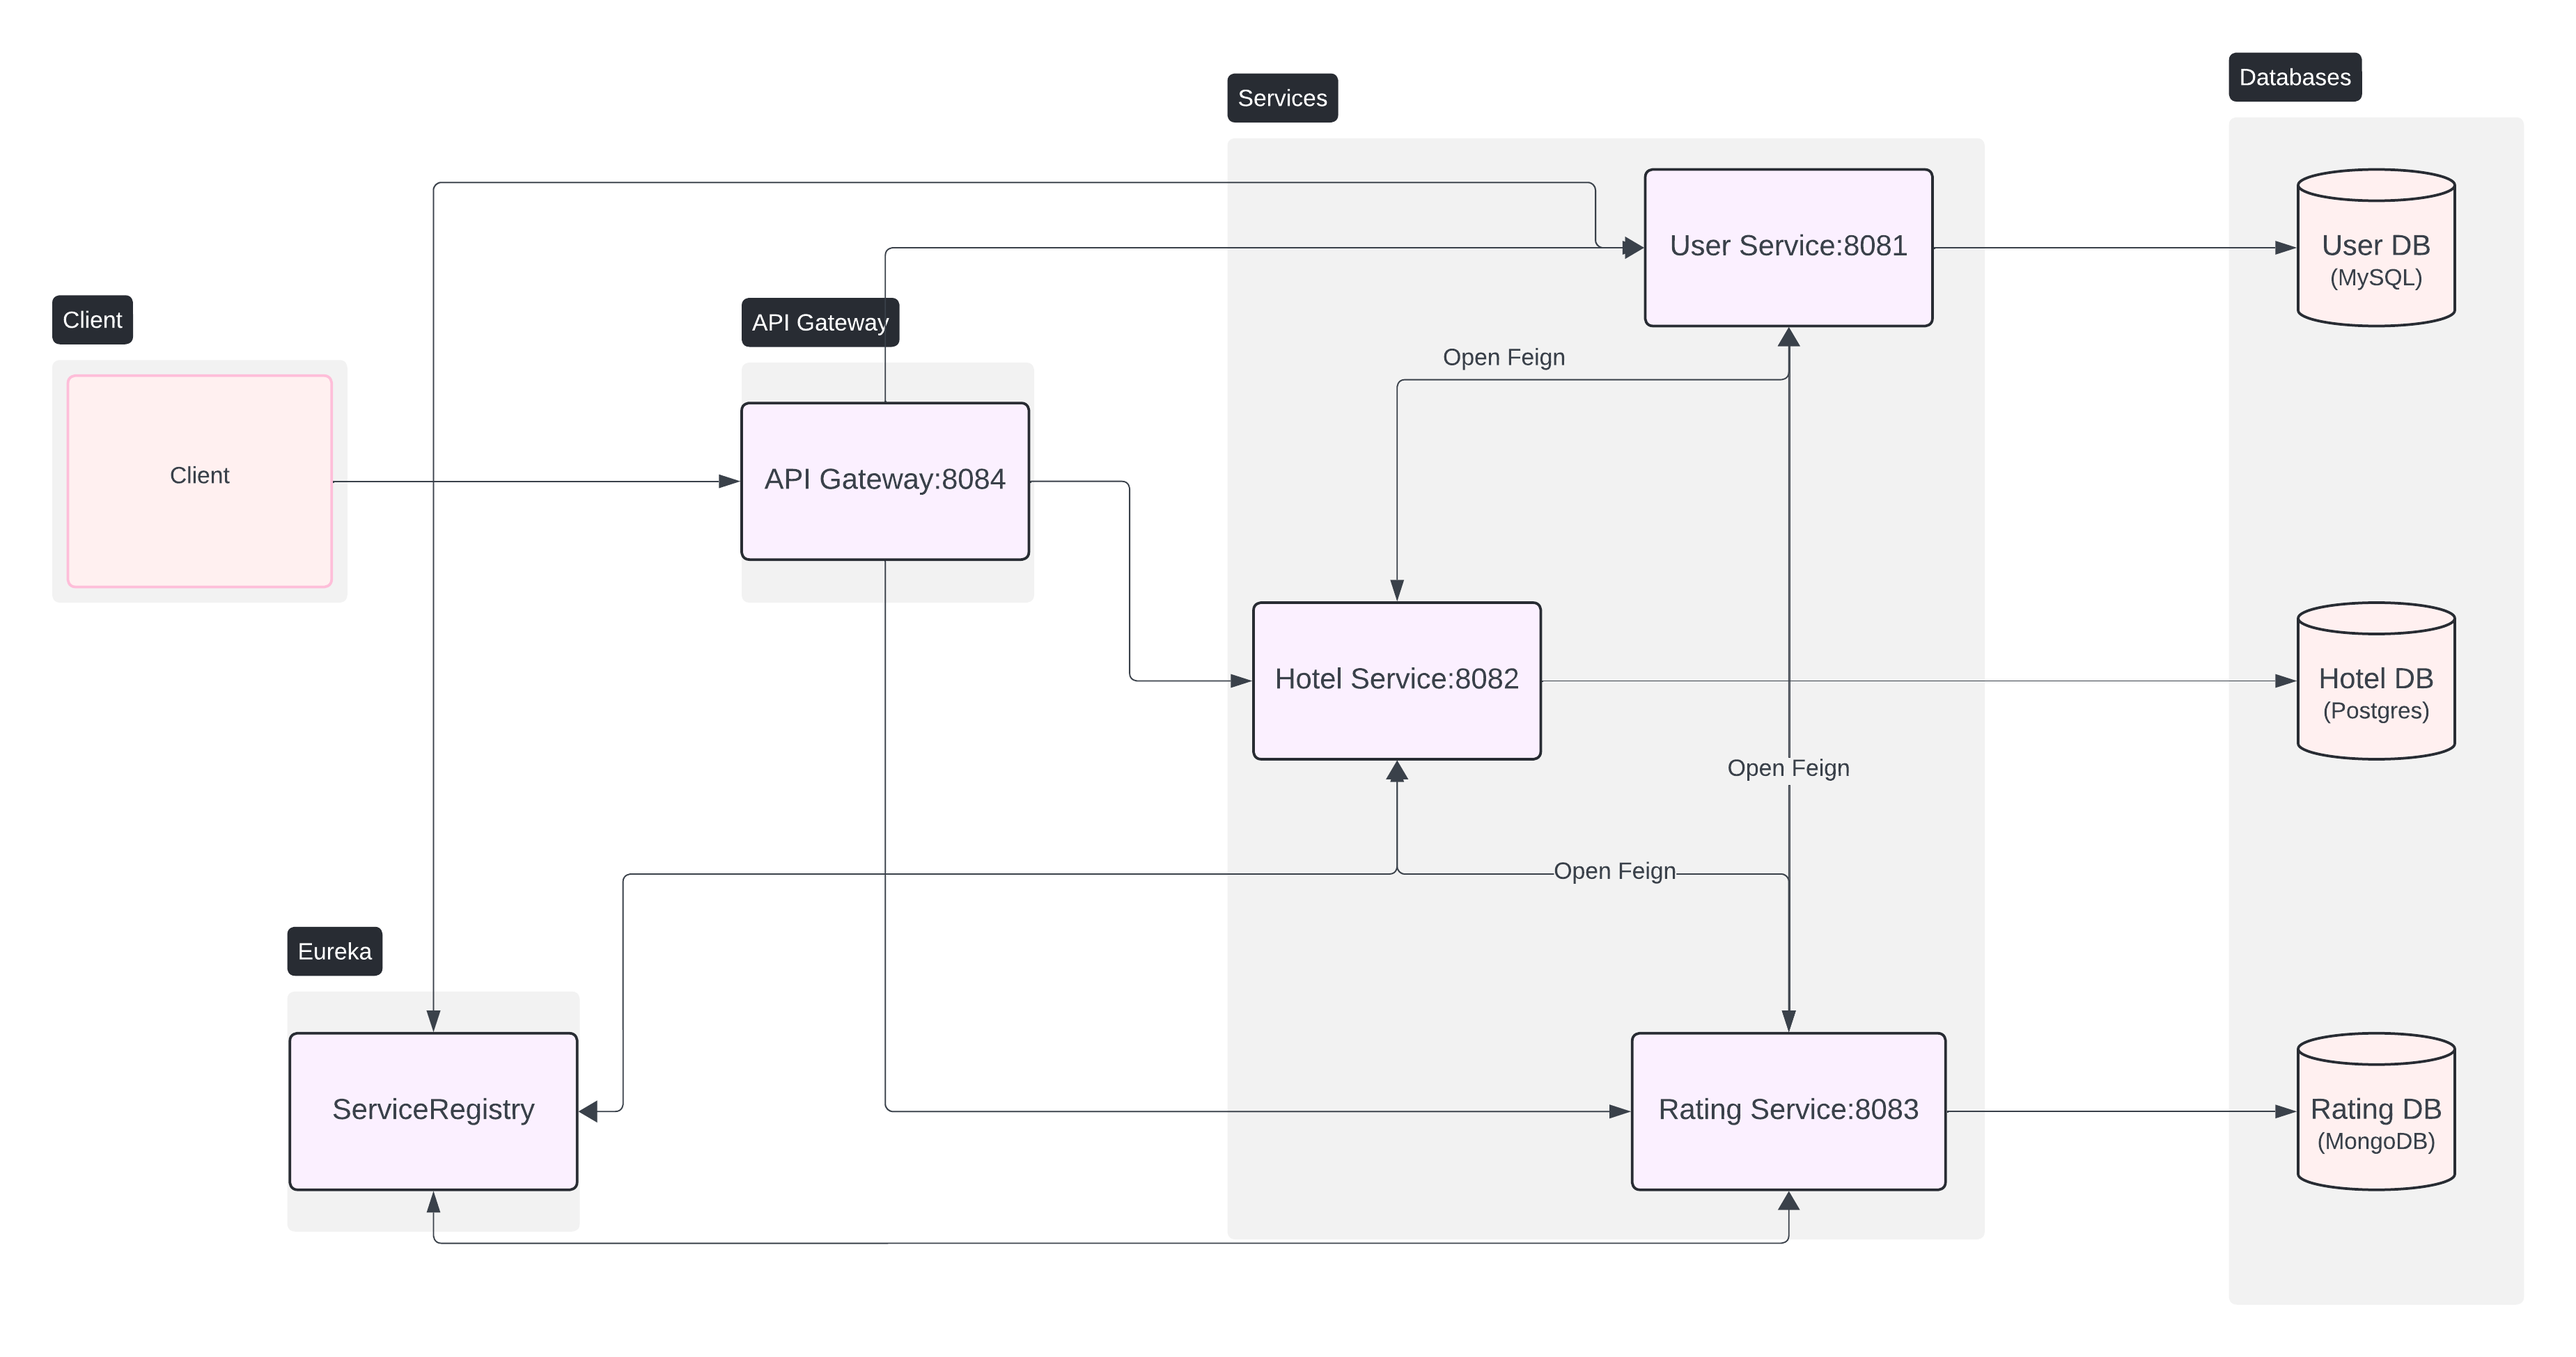
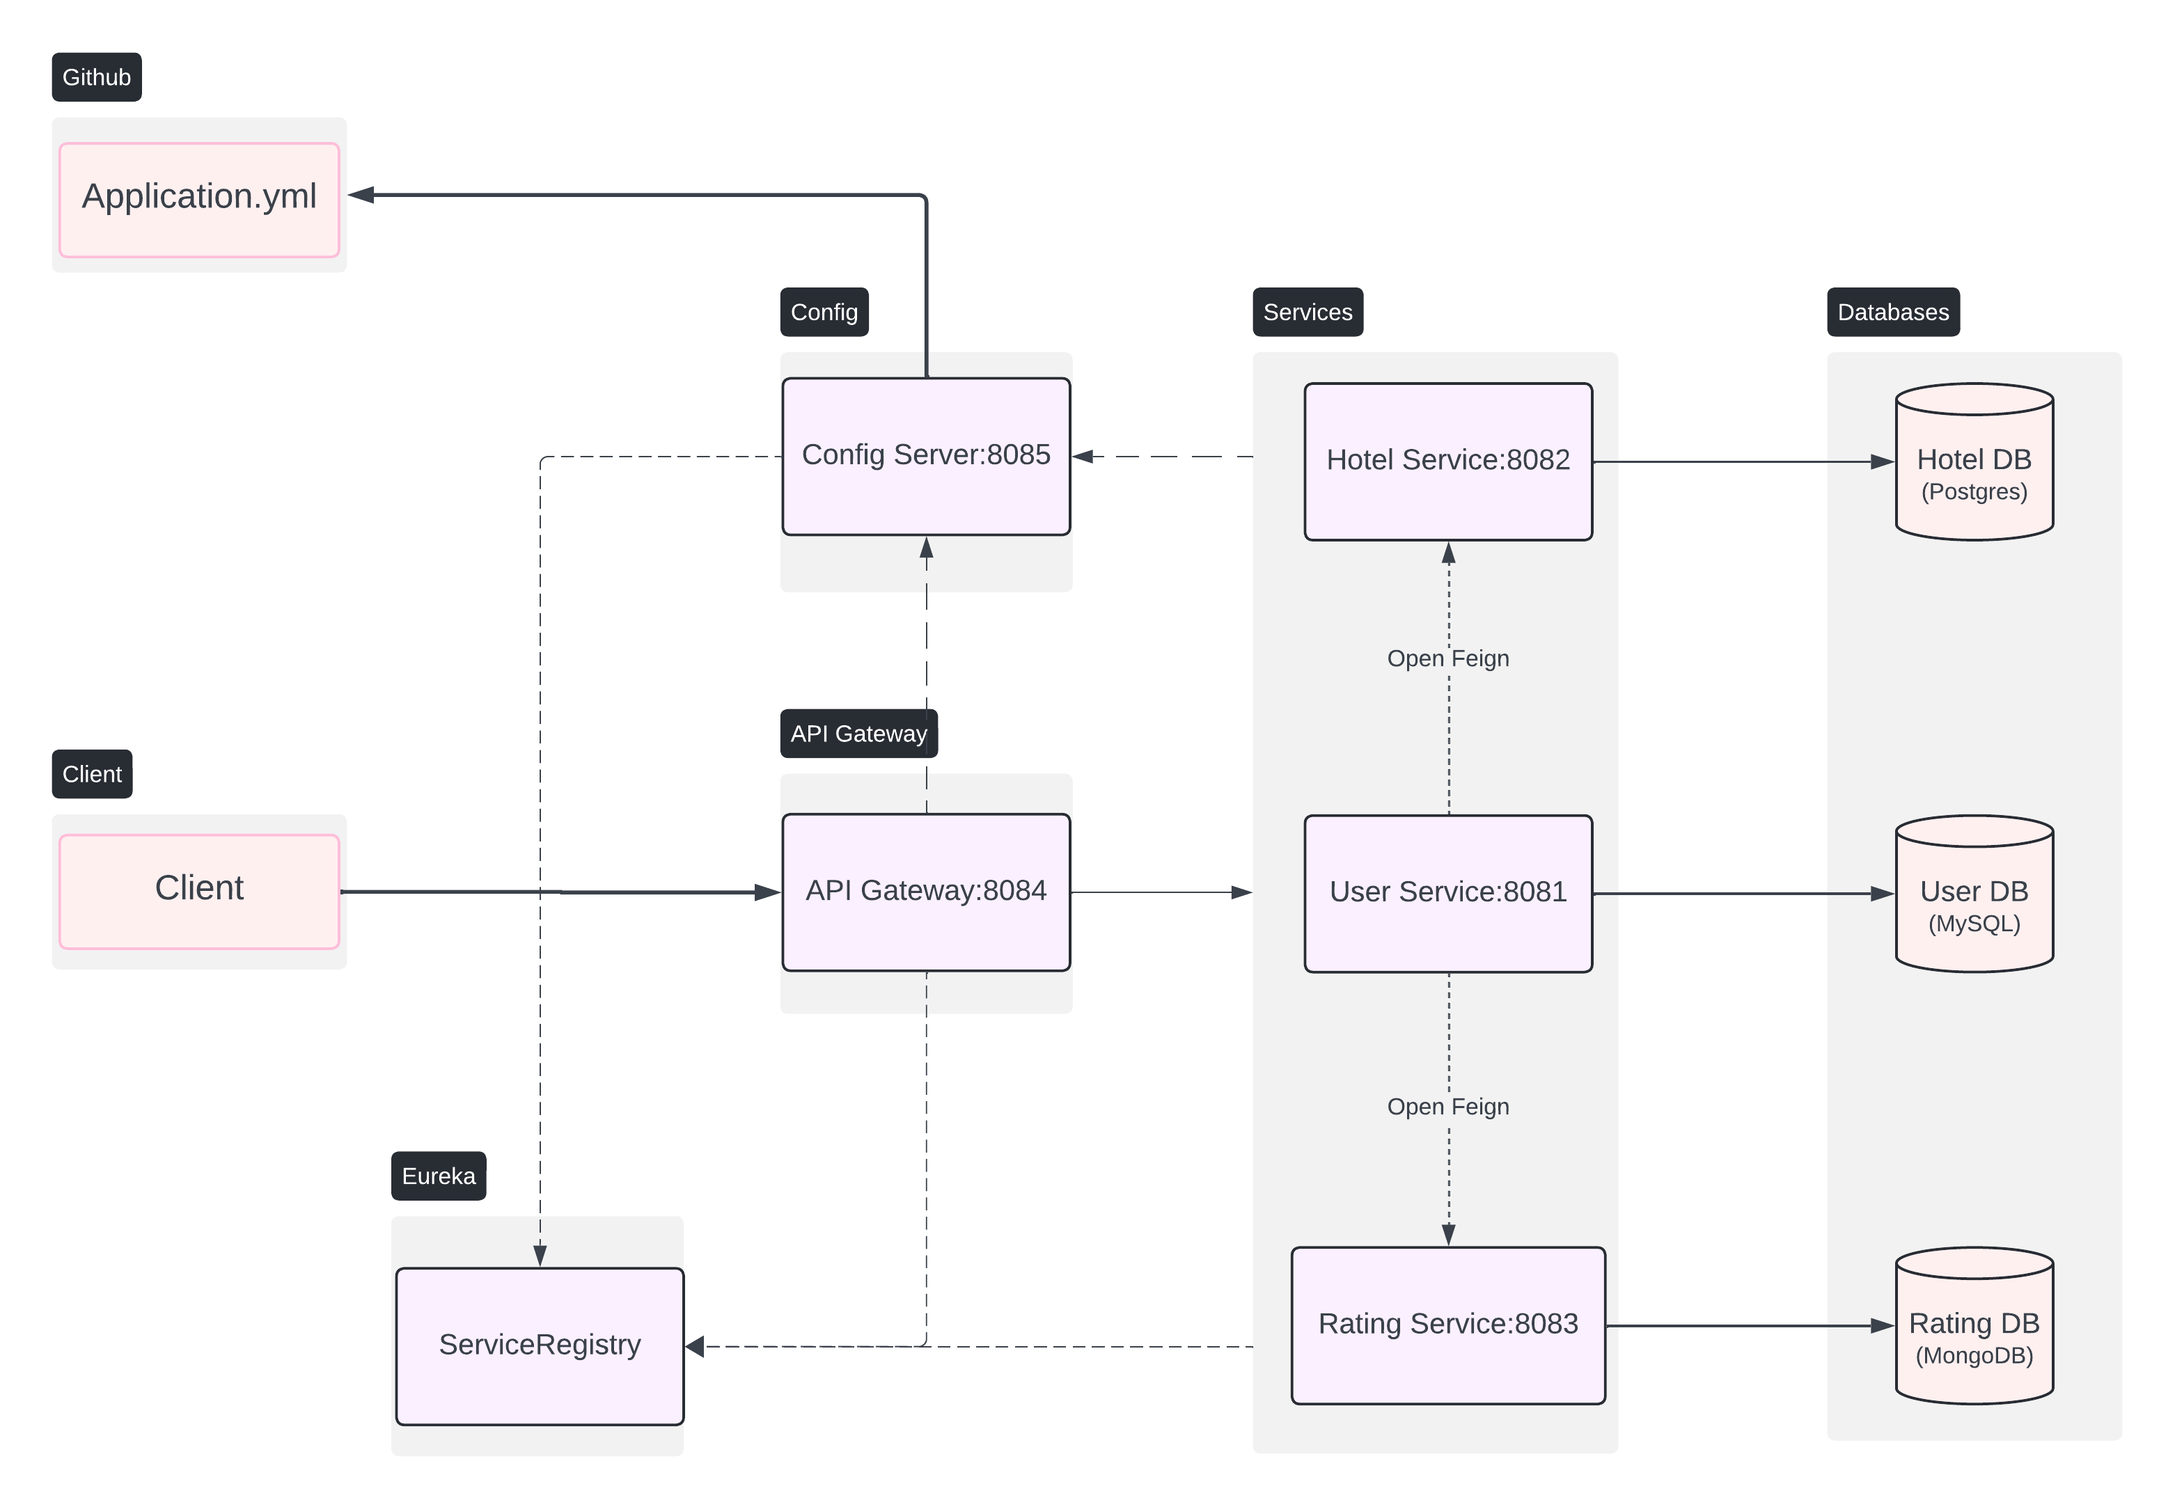
updated readme.md

diff --git a/README.md b/README.md
@@ -11,23 +11,26 @@ This is a microservice-based application for managing hotel ratings. The applica
 ### 1. User Service (Port: 8081)
 - Manages user information.
 - Connects to a MySQL database (`User DB`).
+- Communicates with Hotel Service and Rating Service using OpenFeign.
 
 ### 2. Hotel Service (Port: 8082)
 - Manages hotel information.
 - Connects to a PostgreSQL database (`Hotel DB`).
-- Communicates with the User Service and Rating Service using OpenFeign.
 
 ### 3. Rating Service (Port: 8083)
 - Manages hotel ratings.
 - Connects to a MongoDB database (`Rating DB`).
-- Communicates with the Hotel Service using OpenFeign.
 
 ### 4. API Gateway (Port: 8084)
 - Routes client requests to the appropriate microservices.
 - Acts as a reverse proxy.
 
-### 5. Eureka Server
+### 5. Eureka Server (Port: 8761)
 - Provides service discovery for all microservices.
+
+### 6. Config Server (Port: 8085)
+- Gets the common properties of servers strored in github repository.
+- Gets different properties set up for developer and production environment as needed.
 
 ## Databases
 
@@ -37,9 +40,9 @@ This is a microservice-based application for managing hotel ratings. The applica
 
 ## Prerequisites
 
-- Java 11 or higher
+- Java 17
 - Maven
-- Docker (for running databases)
+- Docker
 
 ## Running the Application
 
@@ -50,15 +53,7 @@ This is a microservice-based application for managing hotel ratings. The applica
     cd hotel_rating
     ```
 
-2. **Start the Databases**
-   
-   You can use Docker to start the required databases:
-
-    ```bash
-    docker-compose up -d
-    ```
-
-3. **Build and Run the Services**
+2. **Build and Run the Services**
 
     Open a terminal for each service and run the following commands:
 
@@ -92,7 +87,7 @@ This is a microservice-based application for managing hotel ratings. The applica
     mvn spring-boot:run
     ```
 
-4. **Testing the Application**
+3. **Testing the Application**
 
     You can use the provided Postman collection to test the application. Import the `hotel_rating.postman_collection.json` file into Postman.
 
@@ -100,17 +95,23 @@ This is a microservice-based application for managing hotel ratings. The applica
 
 ### Application Properties
 
-Each service has its own `application.properties` file where you can configure the database connections, Eureka server URL, and other settings.
+Each service has its own `application.yml` file where you can configure the database connections, Eureka server URL, and other settings.
 
 ### API Gateway Routes
 
-The API Gateway routes are defined in the `application.properties` file of the API Gateway service.
+The API Gateway routes are defined in the `application.yml` file of the API Gateway service.
+
+### Configuration Repository
+
+Configuration has its own `GitHub repository` where the properties are imported. A new repository can be created with `application.yml` files and imported by modifying `application.yml` file of the `Config Server`.
 
 ## Technologies Used
 
 - Spring Boot
 - Spring Cloud Netflix Eureka
 - Spring Cloud OpenFeign
+- Spring Cloud Config Server
+- GitHub
 - MySQL
 - PostgreSQL
 - MongoDB
